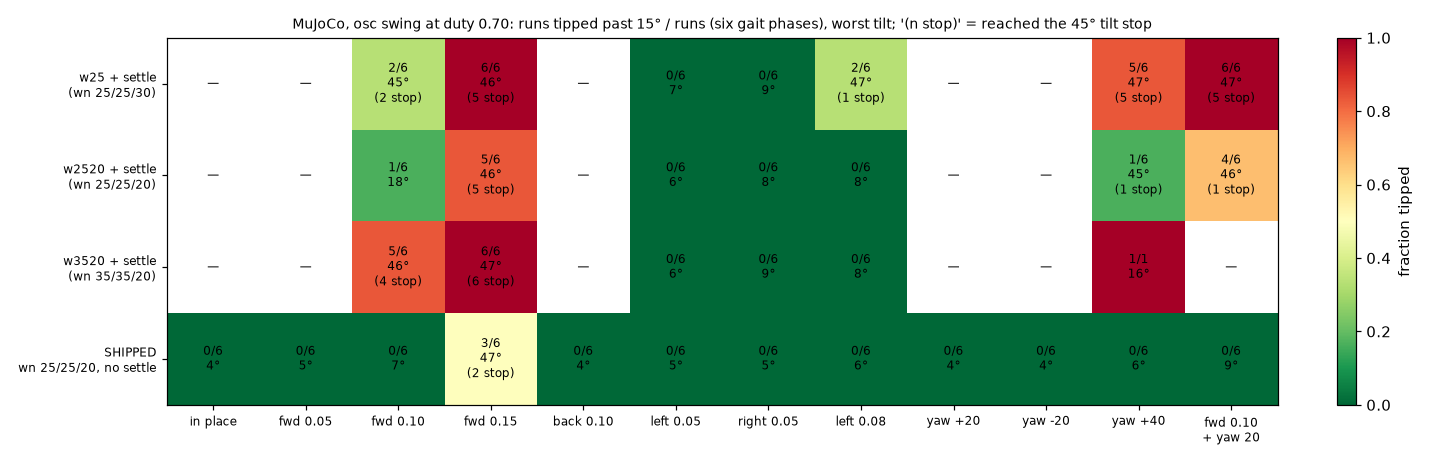
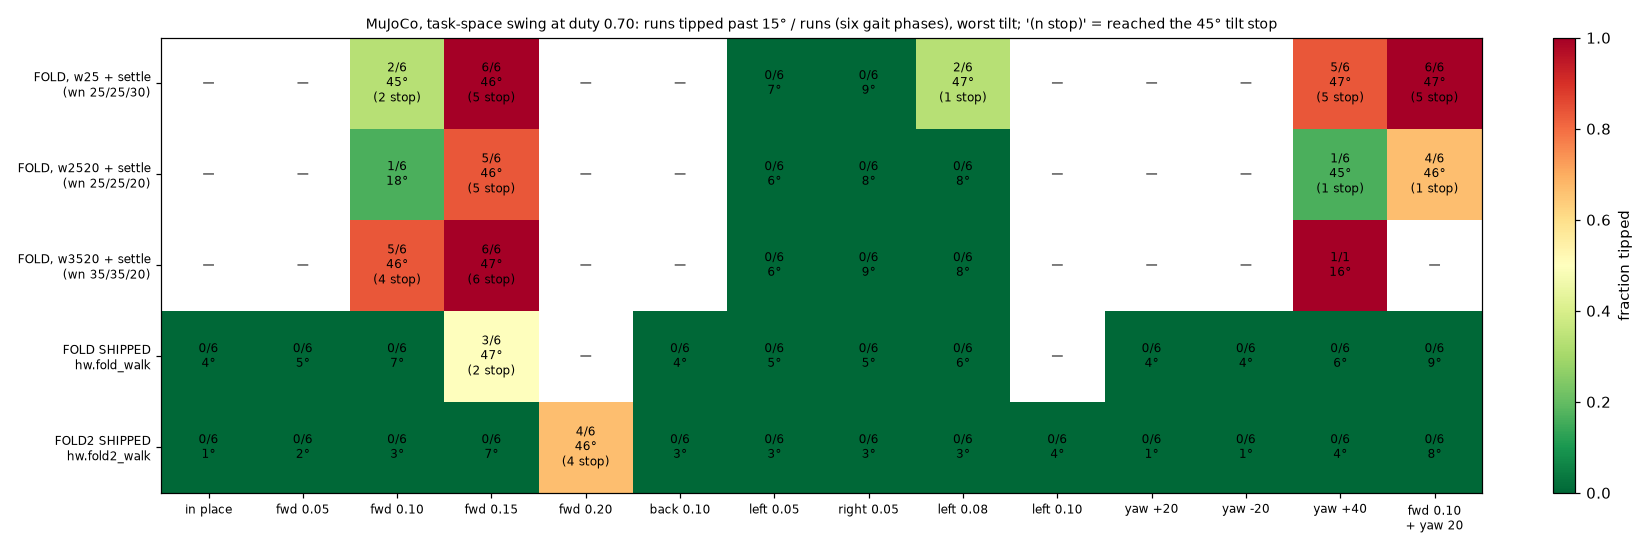
doc/walk: FOLD2 across the gait phase, the envelope figure with FOLD2
hw.fold2_walk, six gait phases a case in MuJoCo: in place, 0.05-0.15 m/s
forward, 0.10 back, 0.05 / 0.08 / 0.10 sideways, 20 and 40 deg/s turns and
0.10 m/s with a 20 deg/s turn, none tipped, all under 8 deg of tilt (the
fold tipped 3 of 6 at 0.15 m/s forward); 0.20 m/s forward is the edge, 4 of
6 to the tilt stop at the 9 N*m clip.  Joint friction with the IMU 15 ms
late, a mu 0.5 floor, and the 0.6 rotor with DOG5's M0 or a fitted one:
none tipped.  The keys' box stays the fold's for the first flights; the
README and hw.fold2_walk say what MuJoCo allows past it.

Claude-Session: https://claude.ai/code/session_011PHoTh4WXoichn4rkftkKB

diff --git a/hw/fold2_walk.py b/hw/fold2_walk.py
@@ -26,7 +26,16 @@ WHAT IS FOLD2'S OWN, AND WHAT IT DOES TO THE WALK
     line is zero here.  The swing leg is the same leg mirrored -- the foot
     is the same 0.31 / 0.36 / 5.8 kg in x / y / z (Lambda at the hold), so
     the torque-rate budget of doc/walk section 4 is the fold's to the digit.
-    doc/walk/README.md section 7 has FOLD2's envelope in MuJoCo.
+
+    WHAT MUJOCO SAYS (doc/walk/README.md section 7): the better walker.  Six
+    gait phases a case: in place, 0.05-0.15 m/s forward, 0.10 back, 0.05 /
+    0.08 / 0.10 sideways, 20 and 40 deg/s turns and 0.10 m/s with a 20 deg/s
+    turn, none tipped, all under 8 deg (the fold tipped 3 of 6 at 0.15 m/s
+    forward); 0.20 m/s forward is the edge, 4 of 6 to the tilt stop.  Joint
+    friction with a late IMU, a mu 0.5 floor, DOG6's lighter rotor with
+    DOG5's M0 or a fitted one: none tipped.  The keys' box is the fold's,
+    0.10 / 0.05 m/s and 20 deg/s, for the first flights; `--v-max 0.15 0.10
+    --yaw-rate-max 40` is inside what MuJoCo walked.
 
 THE ARMATURE IS THE SWING'S GAIN, here as in `hw.fold_walk`: fit it with
 `hw.swing_bench --analyse` and pass `--ff-armature` before walking.

diff --git a/doc/walk/README.md b/doc/walk/README.md
@@ -36,8 +36,12 @@ box ships at 0.10 / 0.05 m/s and 20 °/s.
 default allocator — stand, rise, hold, trot, walk (section 5.1): in place
 it is the least squares to 0.05° of tilt, pushed it delivers more of the
 wrench, and its worst case is capped at ~1.5 ms.  And `hw.fold2_walk` walks
-the knees-out FOLD2 with the same walk (section 7): its CoM is on both trot
-diagonals, and every case run on it is calmer than on the fold.
+the knees-out FOLD2 with the same walk (section 7).  Its CoM is on both trot
+diagonals, and it is the better walker: six phases a case, in place to
+0.15 m/s forward, 0.10 sideways, 40 °/s and 0.10 m/s with a 20 °/s turn all
+under 8° of tilt, none tipped — 0.20 m/s forward is its edge (4 of 6 to
+the stop) — and none of the hardware unknowns tipped it, the unfitted
+lighter rotor included.
 
 ![envelope](fig/fig_envelope.png)
 
@@ -586,15 +590,92 @@ of the study (1.5°).
 
 ### 7.2 Across the gait phase
 
-Six phases a case and the hardware unknowns at three (`--f2repeats`): in
-the follow-up to this commit, when the runs finish.
+Six phases a case, the command 0, 100, … 500 ms into the clock, the shipped
+walk unchanged (`--f2repeats`):
+
+| case | runs | tipped >15° | tilt stop | max tilt (median) | true (vx, vy, r), stood | peak τ | slip |
+|---|---|---|---|---|---|---|---|
+| in place | 6 | 0 | 0 | 1.0° (1.0°) | — | 3.5 N·m | 8 mm/s |
+| forward 0.05 | 6 | 0 | 0 | 1.6° (1.5°) | +0.056, +0.000, +0.0 | 3.9 N·m | 12 mm/s |
+| forward 0.10 | 6 | 0 | 0 | 3.3° (3.0°) | +0.110, +0.001, +0.0 | 5.0 N·m | 22 mm/s |
+| forward 0.15 | 6 | 0 | 0 | 6.7° (5.9°) | +0.167, +0.002, +0.1 | 6.3 N·m | 36 mm/s |
+| **forward 0.20** | 6 | **4** | **4** | 46.3° (45.1°) | +0.220, +0.014, +0.2 | 9.0 N·m | 45 mm/s |
+| back 0.10 | 6 | 0 | 0 | 3.2° (2.9°) | −0.111, −0.000, +0.0 | 5.0 N·m | 22 mm/s |
+| left 0.05 | 6 | 0 | 0 | 2.9° (2.1°) | +0.000, +0.056, +0.0 | 3.7 N·m | 13 mm/s |
+| right 0.05 | 6 | 0 | 0 | 2.9° (2.2°) | +0.000, −0.056, +0.0 | 3.8 N·m | 13 mm/s |
+| left 0.08 | 6 | 0 | 0 | 3.4° (3.1°) | +0.000, +0.089, +0.0 | 3.8 N·m | 17 mm/s |
+| left 0.10 | 6 | 0 | 0 | 3.9° (3.6°) | +0.000, +0.110, +0.0 | 3.8 N·m | 19 mm/s |
+| turn +20 °/s | 6 | 0 | 0 | 1.2° (1.0°) | +0.000, −0.000, +20.0 | 3.8 N·m | 15 mm/s |
+| turn −20 °/s | 6 | 0 | 0 | 1.1° (1.0°) | +0.000, +0.001, −20.0 | 3.8 N·m | 15 mm/s |
+| turn +40 °/s | 6 | 0 | 0 | 4.3° (3.7°) | +0.001, +0.000, +40.0 | 5.0 N·m | 26 mm/s |
+| 0.10 fwd + 20 °/s | 6 | 0 | 0 | 7.7° (6.8°) | +0.106, +0.001, +20.0 | 6.0 N·m | 26 mm/s |
+
+Beside the fold's shipped walk (section 6.5), the same cases and phases:
+
+| case | FOLD tipped / runs, worst tilt | FOLD2 tipped / runs, worst tilt |
+|---|---|---|
+| in place | 0 / 6, 3.7° | 0 / 6, 1.0° |
+| forward 0.05 | 0 / 6, 5.2° | 0 / 6, 1.6° |
+| forward 0.10 | 0 / 6, 6.6° | 0 / 6, 3.3° |
+| forward 0.15 | 3 / 6, 46.9° | 0 / 6, 6.7° |
+| forward 0.20 | — | 4 / 6, 46.3° |
+| back 0.10 | 0 / 6, 4.0° | 0 / 6, 3.2° |
+| left 0.05 | 0 / 6, 5.4° | 0 / 6, 2.9° |
+| right 0.05 | 0 / 6, 4.7° | 0 / 6, 2.9° |
+| left 0.08 | 0 / 6, 5.9° | 0 / 6, 3.4° |
+| left 0.10 | — | 0 / 6, 3.9° |
+| turn +20 °/s | 0 / 6, 4.2° | 0 / 6, 1.2° |
+| turn −20 °/s | 0 / 6, 4.3° | 0 / 6, 1.1° |
+| turn +40 °/s | 0 / 6, 5.8° | 0 / 6, 4.3° |
+| 0.10 fwd + 20 °/s | 0 / 6, 9.5° | 0 / 6, 7.7° |
+
+Every case the fold walks, FOLD2 walks at a quarter (in place, turning at
+20 °/s) to four fifths (back 0.10, the combined 0.10 + 20 °/s) of the
+fold's worst tilt; 0.15 m/s forward, which tipped the fold in 3 of 6
+phases, is 6 of 6 at 6.7° worst; 0.10 m/s sideways is 6 of 6 at 3.9°.  The edge is 0.20 m/s
+forward: 4 of 6 to the tilt stop, at the 9 N·m clip — section 4's
+torque-rate budget, which the CoM does not move.  The x/y velocity comes
+out ~10 % over the command here too (0.110 for 0.10): the estimator's
+under-read of section 6.7, not the posture's.
+
+### 7.3 The hardware unknowns
+
+Three phases each, as section 6.6:
+
+| variant | case | runs | tipped >15° | tilt stop | max tilt (median) | true (vx, vy, r), stood | peak τ |
+|---|---|---|---|---|---|---|---|
+| friction + IMU 15 ms | fwd10 | 3 | 0 | 0 | 3.3° (3.0°) | +0.109, +0.000, −0.0 | 5.0 N·m |
+| friction + IMU 15 ms | lat05 | 3 | 0 | 0 | 2.8° (2.7°) | +0.000, +0.063, +0.0 | 3.7 N·m |
+| friction + IMU 15 ms | yaw20 | 3 | 0 | 0 | 2.1° (2.1°) | +0.001, +0.004, +20.0 | 3.8 N·m |
+| floor μ 0.5 | fwd10 | 3 | 0 | 0 | 3.2° (3.0°) | +0.111, +0.000, +0.0 | 5.0 N·m |
+| floor μ 0.5 | lat05 | 3 | 0 | 0 | 3.1° (2.2°) | +0.000, +0.057, −0.1 | 3.7 N·m |
+| floor μ 0.5 | yaw20 | 3 | 0 | 0 | 1.2° (1.2°) | +0.000, +0.000, +20.0 | 3.9 N·m |
+| rotor 0.6, M0 DOG5's | inplace | 3 | 0 | 0 | 1.0° (1.0°) | — | 3.3 N·m |
+| rotor 0.6, M0 DOG5's | fwd10 | 3 | 0 | 0 | 4.1° (4.0°) | +0.107, +0.002, −0.1 | 4.4 N·m |
+| rotor 0.6, M0 DOG5's | lat05 | 3 | 0 | 0 | 3.2° (3.1°) | +0.000, +0.058, −0.0 | 3.6 N·m |
+| rotor 0.6, M0 DOG5's | yaw20 | 3 | 0 | 0 | 1.0° (1.0°) | +0.000, +0.001, +19.9 | 3.8 N·m |
+| rotor 0.6, M0 fitted | inplace | 3 | 0 | 0 | 0.9° (0.9°) | — | 2.6 N·m |
+| rotor 0.6, M0 fitted | fwd10 | 3 | 0 | 0 | 2.0° (1.5°) | +0.112, +0.000, −0.0 | 3.4 N·m |
+| rotor 0.6, M0 fitted | lat05 | 3 | 0 | 0 | 3.2° (2.2°) | +0.000, +0.055, −0.0 | 2.6 N·m |
+| rotor 0.6, M0 fitted | yaw20 | 3 | 0 | 0 | 1.0° (1.0°) | −0.000, +0.001, +20.0 | 2.7 N·m |
+
+None tipped.  The rotor that tipped the fold once in three with DOG5's M0
+(section 6.6) costs FOLD2 under a degree at 0.10 m/s (4.1° against 3.3°),
+and fitted it is calmer than the model's own (2.0°, peak torque 3.4 N·m).
+The fitted armature is still the first thing to do on the robot — it is a
+gain — but on FOLD2 the walk does not hang on it.
 
 ## 8. Feasibility
 
-**In MuJoCo: yes, inside the envelope of section 6.5**, every case at every
-phase tried under 10° of tilt, peak torque 3.7–6.2 N·m against the 9 N·m clip,
-the commanded yaw rate tracked to 0.2 °/s.  **0.15 m/s forward: no** — it is
-past the swing's torque-rate budget (section 4) and the diagonal's roll.
+**In MuJoCo: yes, inside the envelopes of sections 6.5 and 7.2.**  The fold
+(`hw.fold_walk`): every case at every phase tried under 10° of tilt, peak
+torque 3.7–6.2 N·m against the 9 N·m clip, the commanded yaw rate tracked
+to 0.2 °/s; **0.15 m/s forward: no** — past the swing's torque-rate budget
+(section 4) and the diagonal's roll.  FOLD2 (`hw.fold2_walk`): wider and
+calmer — **0.15 m/s forward and 0.10 sideways: yes**, everything under 8°;
+**0.20 m/s forward: no**.  If one stance is to walk first on the robot, the
+simulation says FOLD2.  Both under the QP, which section 5.1 shows is the
+least squares wherever the cone does not bind.
 
 **On the robot: plausible, on three conditions.**
 
@@ -607,12 +688,15 @@ past the swing's torque-rate budget (section 4) and the diagonal's roll.
    is 1/1.7 of DOG5's, the demand is that much lower than here.
 3. **The Pi's sweep time** (section 6.8).
 
-A first flight, each step only if the last was clean: `hw.fold_walk --fake
---auto 1 --no-imu` (the whole path, no robot); on the robot, T and trot in
-place with the walk attached (this is *not* `hw.fold_trot`'s trot in place:
-duty 0.70, no settle, the task-space swing); Q / E once (10 °/s); W once
-(0.05 m/s), SPACE, S once; A / D once (0.05 m/s); then a second press.
-SPACE, a cycle or two in place, T, ENTER to park.
+A first flight, each step only if the last was clean: `hw.fold2_walk
+--fake --auto 1 --no-imu` (the whole path, no robot); on the robot, T and
+trot in place with the walk attached (this is *not* `hw.fold2_trot`'s trot
+in place: duty 0.70, no settle, the task-space swing); Q / E once
+(10 °/s); W once (0.05 m/s), SPACE, S once; A / D once (0.05 m/s); then a
+second press.  SPACE, a cycle or two in place, T, ENTER to park.  The keys'
+box is the same 0.10 / 0.05 m/s and 20 °/s on both stances; on FOLD2
+`--v-max 0.15 0.10 --yaw-rate-max 40` is still inside what MuJoCo walked,
+once the first flights are clean.  The same order on `hw.fold_walk`.
 
 **What would widen it**, roughly in order of cost: the measured armature
 (lower demand, condition 1); the gate's slew for the swinging legs only
